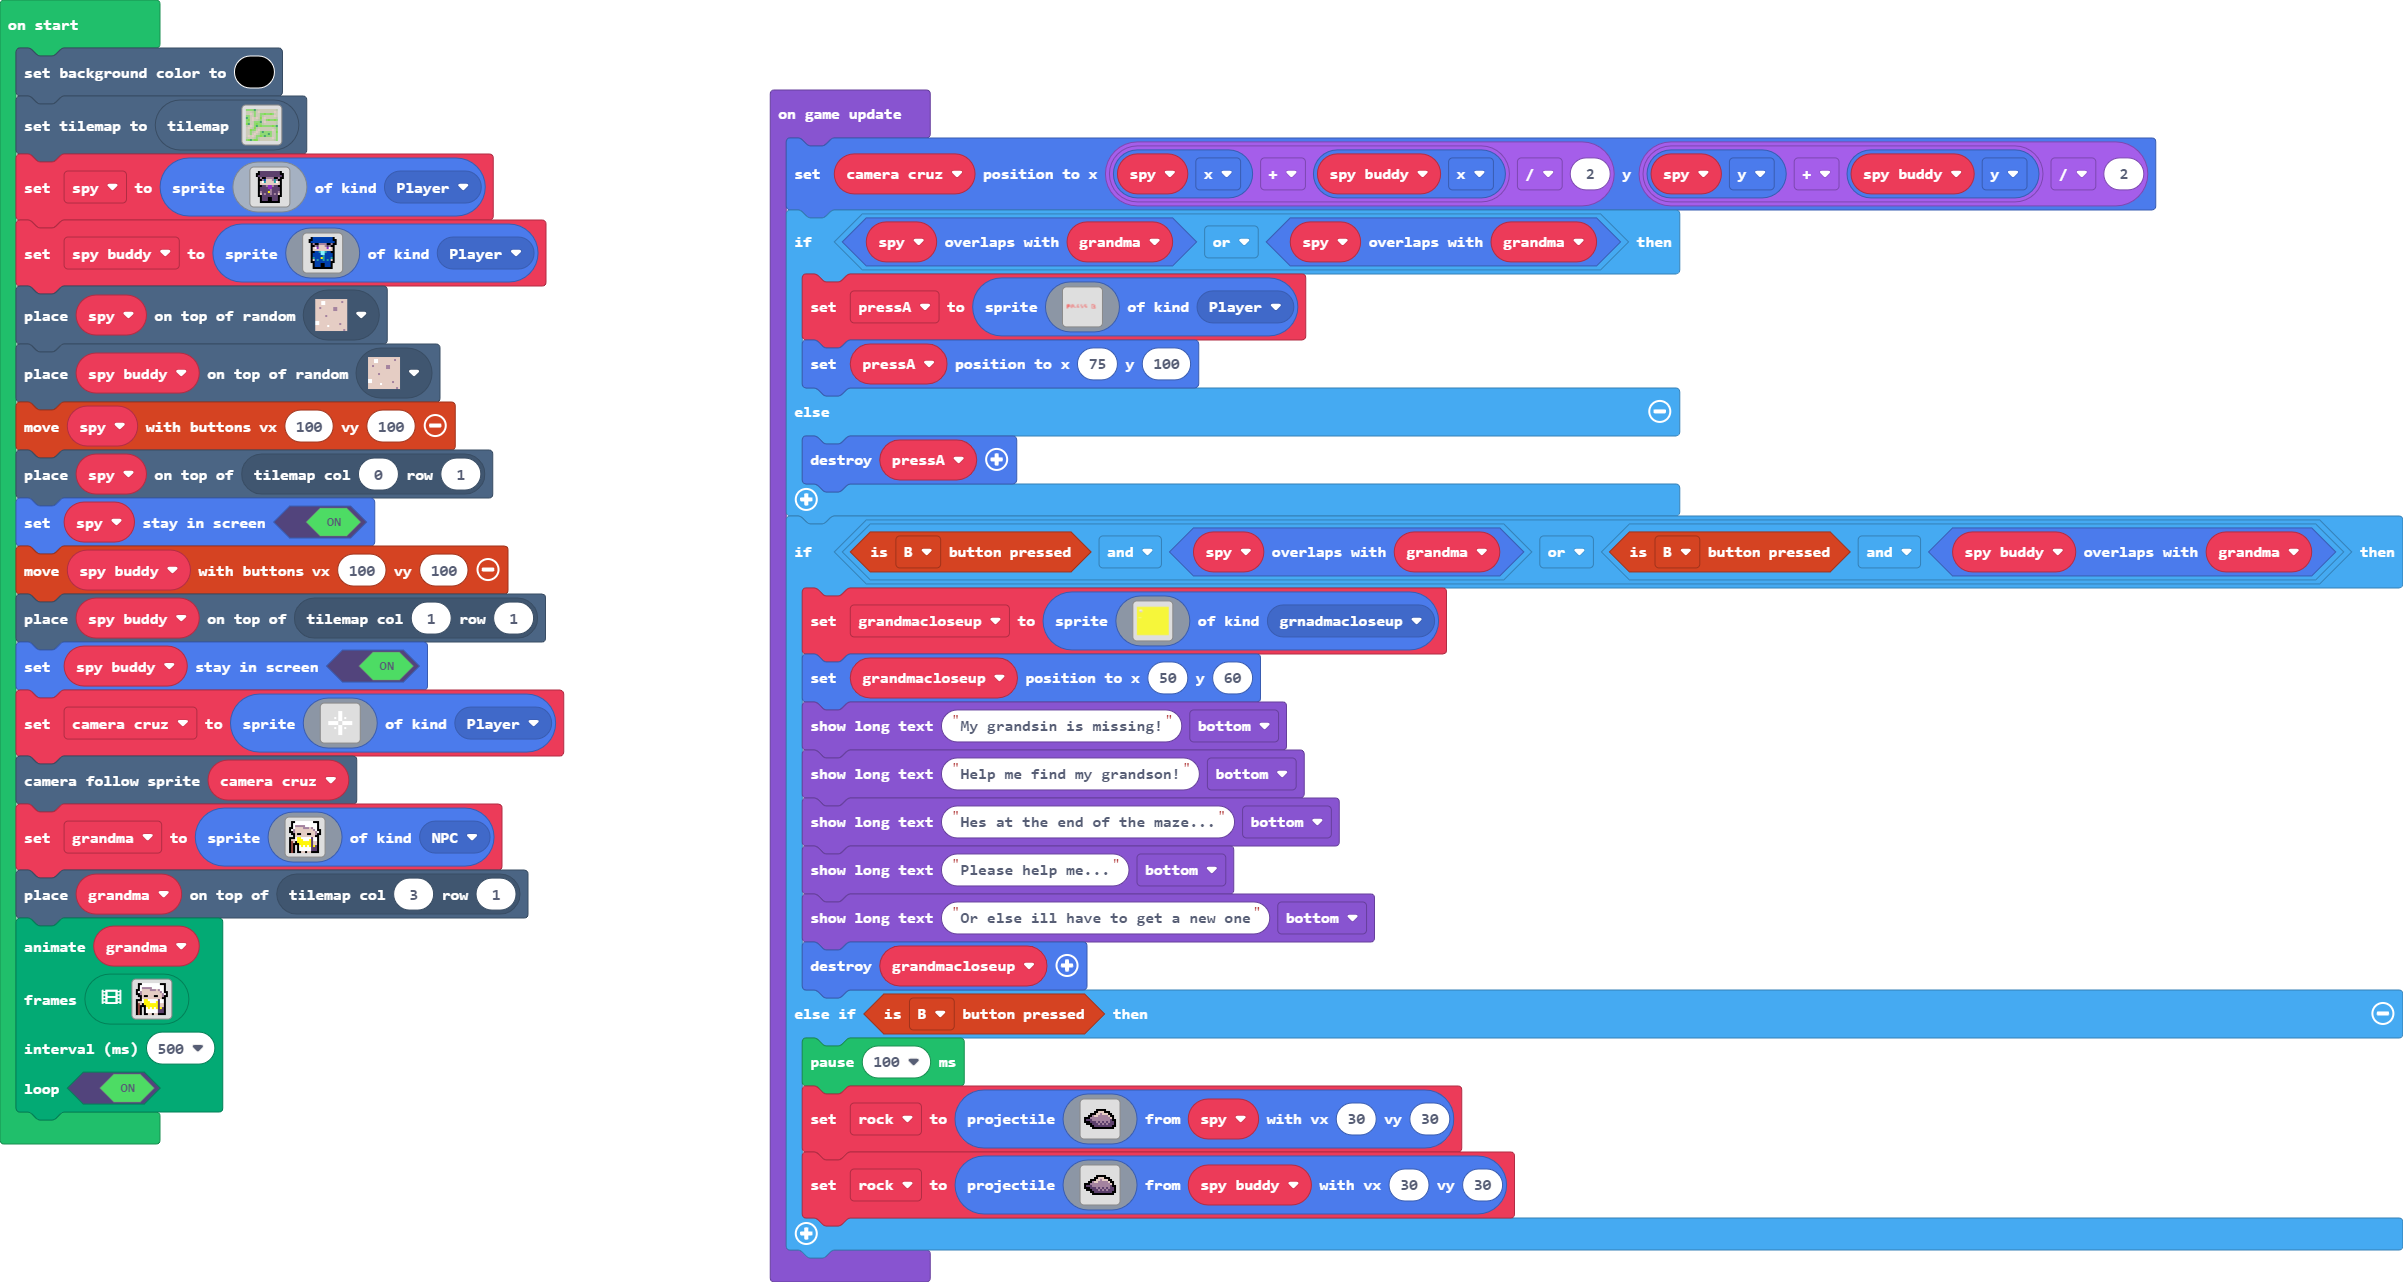
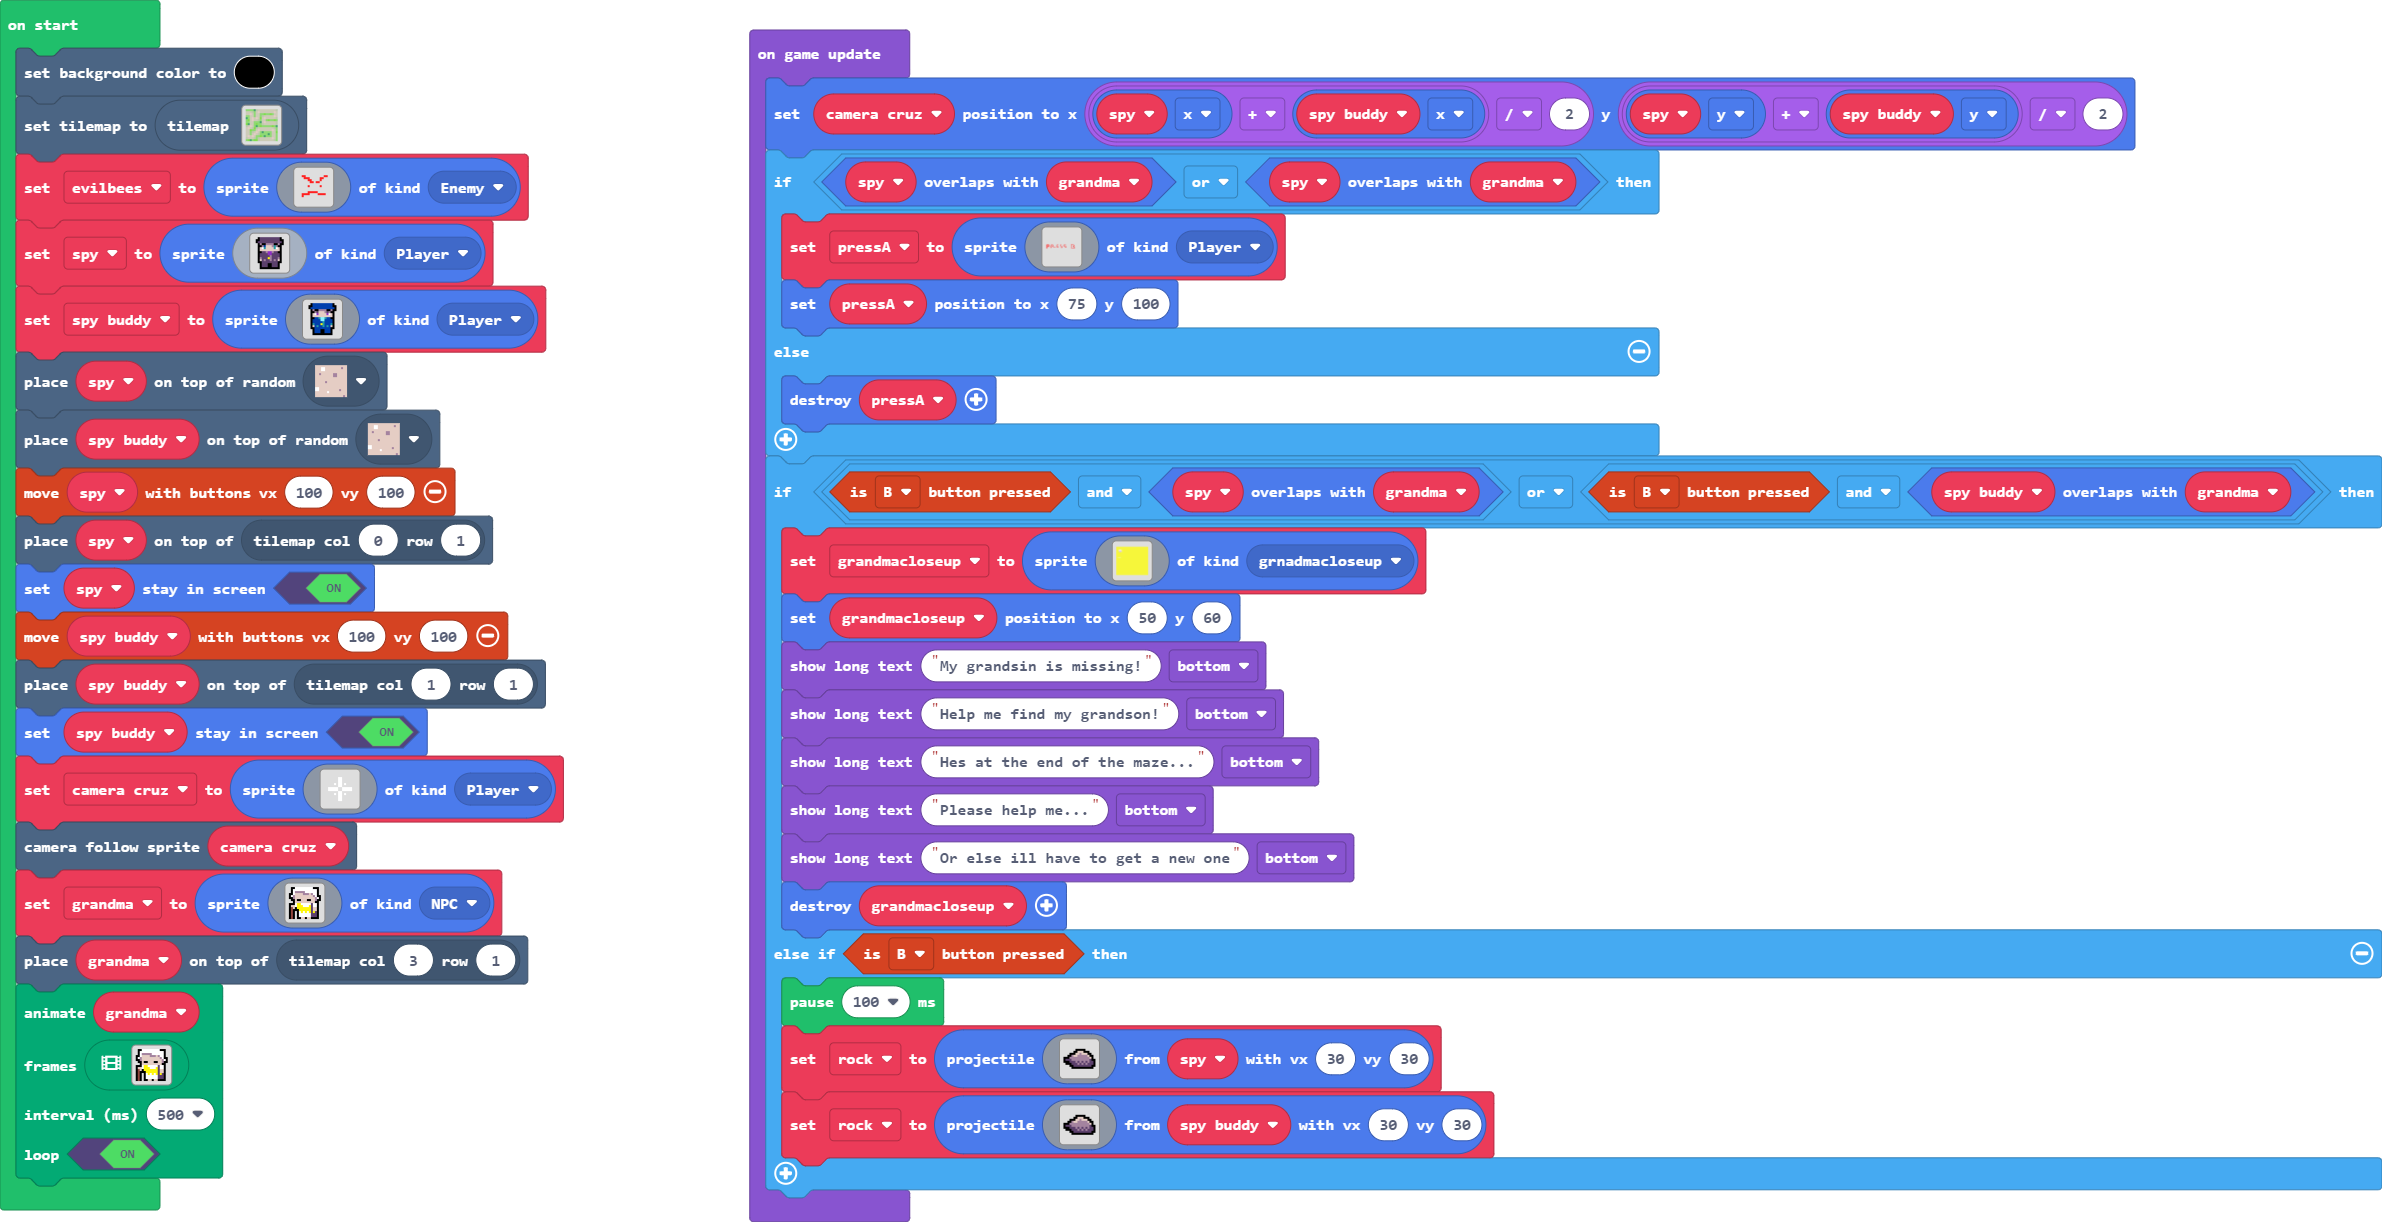
added else staements and added enemis and now they can stop talking to gramma and attacxk.

diff --git a/images.g.ts b/images.g.ts
@@ -203,25 +203,6 @@ f e f . f f d d f d d f f f f .
 5555555555555555555555555555555555555555555555555555555555555555555555555555555555555555555555555555555555555555555555555555555555555555555555555555555555555555
 5555555555555555555555555555555555555555555555555555555555555555555555555555555555555555555555555555555555555555555555555555555555555555555555555555555555555555
 `;
-            case "image5":
-            case "enemy 1":return img`
-. . . . . . . . . . . . . . . . 
-. . . . . . . . . . . . . . . . 
-. . 2 2 . . . . . . . . . 2 2 . 
-. . . 2 2 2 . . . . . 2 2 . . . 
-. . . . . 2 2 . . . . 2 . . . . 
-. . . . . . 2 2 . 2 2 . . . . . 
-. . . . . . . . . . . . . . . . 
-. . . . . 2 . . . . . 2 . . . . 
-. . . . . . . . . . . . . . . . 
-. . . . . . . . . . . . . . . . 
-. . . . . 2 2 2 2 2 . . . . . . 
-. . 2 2 2 2 . . . . 2 2 2 2 . . 
-. . 2 . . . . . . . . . . . . . 
-. . . . . . . . . . . . . . . . 
-. . . . . . . . . . . . . . . . 
-. . . . . . . . . . . . . . . . 
-`;
             case "image7":
             case "Nothing":return img`
 . . . . . . . . . . . . . . . . 
@@ -297,6 +278,25 @@ f f f c c c b c b c b c b c c f
 ..22...........................................................................2.222222222..........
 ....................................................................................................
 ....................................................................................................
+`;
+            case "image5":
+            case "enemy 1":return img`
+. . . . . . . . . . . . . . . . 
+. . . . . . . . . . . . . . . . 
+. . 2 2 . . . . . . . . . 2 2 . 
+. . . 2 2 2 . . . . . 2 2 . . . 
+. . . . . 2 2 . . . . 2 . . . . 
+. . . . . . 2 2 . 2 2 . . . . . 
+. . . . . . . . . . . . . . . . 
+. . . . . 2 . . . . . 2 . . . . 
+. . . . . . . . . . . . . . . . 
+. . . . . . . . . . . . . . . . 
+. . . . . 2 2 2 2 2 . . . . . . 
+. . 2 2 2 2 . . . . 2 2 2 2 . . 
+. . 2 . . . . . . . . . . . . . 
+. . . . . . . . . . . . . . . . 
+. . . . . . . . . . . . . . . . 
+. . . . . . . . . . . . . . . . 
 `;
         }
         return null;

diff --git a/main.ts b/main.ts
@@ -7,6 +7,7 @@ let grandmacloseup: Sprite = null
 let pressA: Sprite = null
 scene.setBackgroundColor(15)
 tiles.setCurrentTilemap(tilemap`beggining`)
+let evilbees = sprites.create(assets.image`enemy 1`, SpriteKind.Enemy)
 let spy = sprites.create(assets.image`spy`, SpriteKind.Player)
 let spy_buddy = sprites.create(assets.image`spy buddy`, SpriteKind.Player)
 tiles.placeOnRandomTile(spy, sprites.castle.tilePath5)
